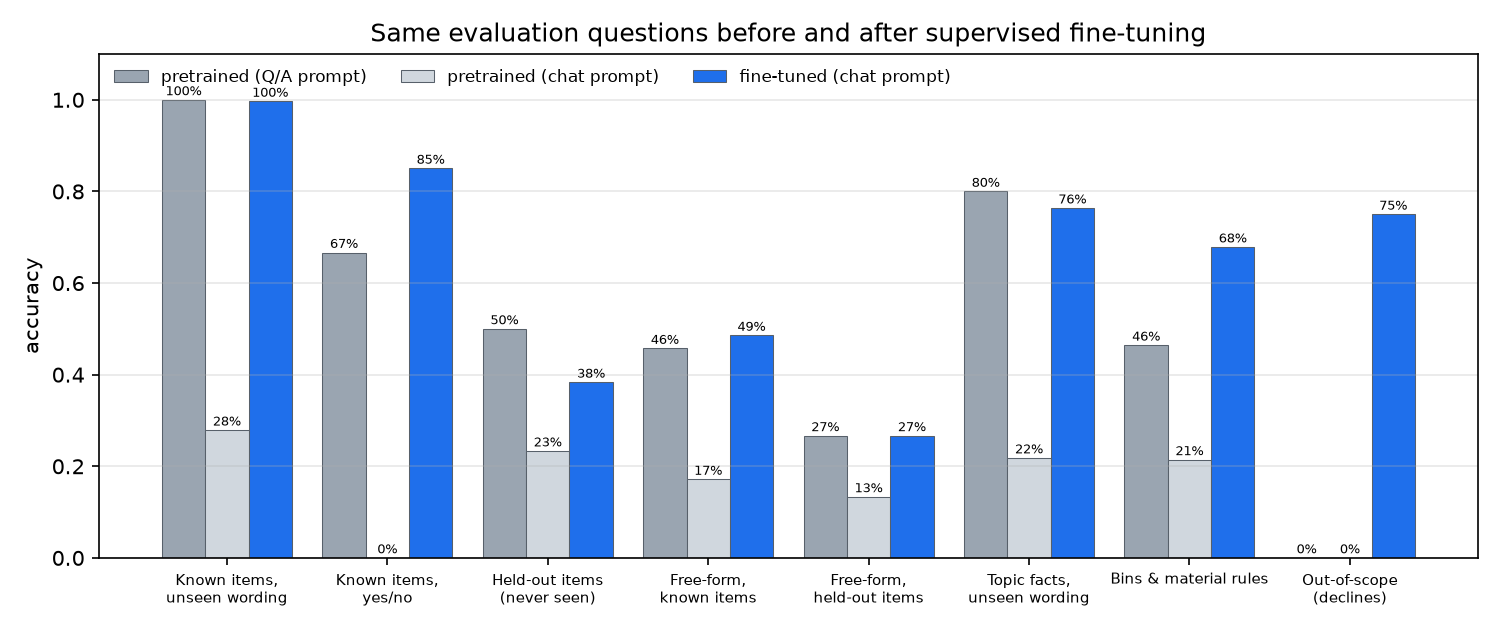
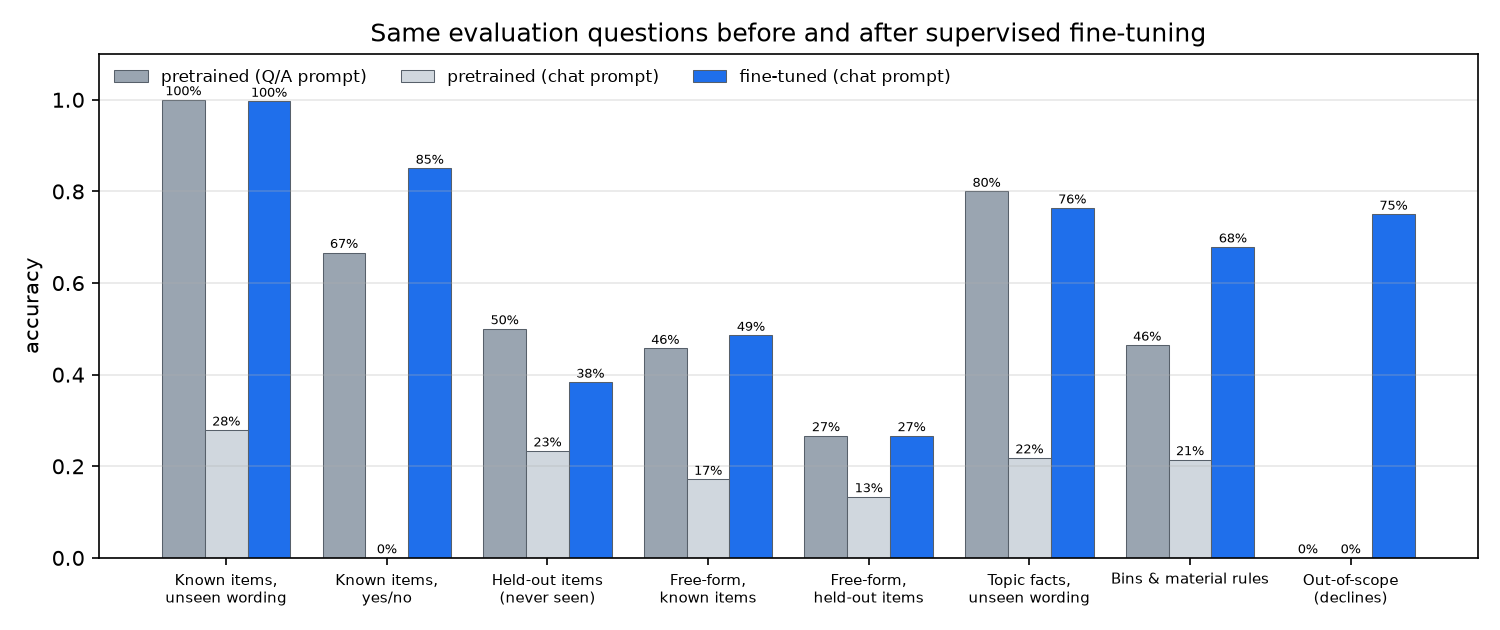
SFT ablation setup: --exclude-categories, notebook 03, --add mode in QA eval

diff --git a/src/evaluate_qa.py b/src/evaluate_qa.py
@@ -118,6 +118,9 @@ def main(argv=None):
     ap.add_argument("--limit", type=int, default=None, help="evaluate only the first N questions (debugging)")
     ap.add_argument("--rescore", action="store_true",
                     help="re-score the answers saved in results/tables/qa_eval_answers.csv instead of generating")
+    ap.add_argument("--add", nargs=2, action="append", metavar=("LABEL", "CHECKPOINT"), default=[],
+                    help="evaluate an extra fine-tuned model (chat prompt) and merge it with the saved answers of "
+                         "the other systems, e.g. --add \"fine-tuned, no declines\" checkpoints/sft_no_decline/ckpt_best.pt")
     a = ap.parse_args(argv)
     torch.manual_seed(0)
     kb = load_kb()
@@ -132,13 +135,15 @@ def main(argv=None):
                 "question": e["question"], "answer": ans, "reference": e.get("reference", ""), **score(e, ans, matcher)}
 
     rows = []
-    if a.rescore:
+    added = [(label, path, "chat") for label, path in a.add]
+    if a.rescore or added:                    # reuse saved answers; regenerate only the added systems
         by_id = {e["id"]: e for e in ev}
         for old in csv.DictReader(open(TABLES / "qa_eval_answers.csv", encoding="utf-8")):
-            if old["id"] in by_id:
+            if old["id"] in by_id and old["system"] not in {s[0] for s in added}:
                 rows.append(row(old["system"], by_id[old["id"]], old["answer"]))
-    else:
-        for name, path, fmt in systems:
+    to_generate = added if (a.rescore or added) else systems
+    if to_generate:
+        for name, path, fmt in to_generate:
             model, _, ck = load_checkpoint(path, "cpu")
             print(f"== {name}: {path} (step {ck['step']})")
             for i, e in enumerate(ev):
@@ -147,7 +152,7 @@ def main(argv=None):
                     print(f"  {i + 1}/{len(ev)}")
 
     # ---- summary table
-    names = [s[0] for s in systems]
+    names = list(dict.fromkeys(r["system"] for r in rows))     # every system present, in order
     def rate(sel, key):
         vals = [r[key] for r in sel if key in r]
         return sum(vals) / len(vals) if vals else None
@@ -205,17 +210,17 @@ def main(argv=None):
     import matplotlib.pyplot as plt
     labels = [g for g, _ in GROUPS]
     fig, ax = plt.subplots(figsize=(10, 4.2), dpi=150)
-    colors = ["#9aa5b1", "#d0d7de", "#1f6feb"]
-    width = 0.27
+    colors = ["#9aa5b1", "#d0d7de", "#1f6feb", "#bf8700", "#2da44e"]
+    width = 0.8 / len(names)
     for k, n in enumerate(names):
         vals = [next(t[n] for t in table if t["group"] == g) or 0 for g in labels]
-        bars = ax.bar([i + (k - 1) * width for i in range(len(labels))], vals, width, label=n, color=colors[k],
+        bars = ax.bar([i + (k - (len(names) - 1) / 2) * width for i in range(len(labels))], vals, width, label=n, color=colors[k],
                       edgecolor="#57606a", linewidth=0.5)
         for b, v in zip(bars, vals):
             ax.text(b.get_x() + b.get_width() / 2, v + 0.01, f"{v:.0%}", ha="center", fontsize=6)
     ax.set_xticks(range(len(labels)))
     ax.set_xticklabels([l.replace(", ", ",\n").replace(" (", "\n(") for l in labels], fontsize=7)
-    ax.set_ylim(0, 1.1); ax.set_ylabel("accuracy"); ax.legend(frameon=False, fontsize=8, ncol=3, loc="upper left")
+    ax.set_ylim(0, 1.1); ax.set_ylabel("accuracy"); ax.legend(frameon=False, fontsize=8, ncol=len(names), loc="upper left")
     ax.set_title("Same evaluation questions before and after supervised fine-tuning"); ax.grid(axis="y", alpha=.3)
     fig.tight_layout()
     FIGURES.mkdir(parents=True, exist_ok=True)
@@ -227,7 +232,7 @@ def main(argv=None):
         by_id[r["id"]][r["system"]] = r
     ex = ["# QA examples: same question, pretrained vs. fine-tuned", "",
           "Greedy decoding. ✅/❌ = automatic verdict. Pretrained shown with its native `Q:/A:` prompt.", ""]
-    pre, fin = names[0], names[2]
+    pre, fin = "pretrained (Q/A prompt)", "fine-tuned (chat prompt)"
     for label, cats in GROUPS:
         ids = [i for i, d in by_id.items() if d[pre]["category"] in cats]
         improved = [i for i in ids if by_id[i][fin]["correct"] and not by_id[i][pre]["correct"]][:3]

diff --git a/src/finetune.py b/src/finetune.py
@@ -48,6 +48,8 @@ def get_args(argv=None):
     p.add_argument("--device", default="auto")
     p.add_argument("--no-amp", action="store_true")
     p.add_argument("--no-resume", action="store_true")
+    p.add_argument("--exclude-categories", nargs="*", default=[],
+                   help="drop SFT examples of these categories from train and val (ablation), e.g. out_of_scope")
     return p.parse_args(argv)
 
 
@@ -58,11 +60,13 @@ def lr_at(step, a):
     return a.min_lr + 0.5 * (a.lr - a.min_lr) * (1 + math.cos(math.pi * progress))
 
 
-def encode_pairs(path, tok, T):
+def encode_pairs(path, tok, T, exclude=()):
     """Returns list of (ids, n_prompt) per example; ids = prompt + answer tokens."""
     out = []
     for line in open(path, encoding="utf-8"):
         e = json.loads(line)
+        if e["category"] in exclude:
+            continue
         prompt = tok.encode(f"<|user|> {e['question']}<|assistant|>", allow_special=True)
         answer = tok.encode(f" {e['answer']}<|endoftext|>", allow_special=True)
         ids = (prompt + answer)[: T + 1]
@@ -124,11 +128,12 @@ def main(argv=None):
     cfg = GPTConfig(**init["config"])
     model = GPT(cfg).to(device)
     model.load_state_dict(init["model"])
-    train = encode_pairs(Path(a.data_dir) / "sft" / "train.jsonl", tok, cfg.context_length)
-    val = encode_pairs(Path(a.data_dir) / "sft" / "val.jsonl", tok, cfg.context_length)
+    train = encode_pairs(Path(a.data_dir) / "sft" / "train.jsonl", tok, cfg.context_length, a.exclude_categories)
+    val = encode_pairs(Path(a.data_dir) / "sft" / "val.jsonl", tok, cfg.context_length, a.exclude_categories)
     corpus_val = TokenData(Path(a.data_dir) / "tokens" / "val.bin", cfg.context_length)
     corpus_offsets = corpus_val.random_offsets(a.corpus_eval_batches * a.batch_size, np.random.default_rng(0))
-    sample_qs = [json.loads(l)["question"] for l in open(Path(a.data_dir) / "sft" / "val.jsonl", encoding="utf-8")][:8]
+    sample_qs = [e["question"] for e in map(json.loads, open(Path(a.data_dir) / "sft" / "val.jsonl", encoding="utf-8"))
+                 if e["category"] not in a.exclude_categories][:8]
 
     opt = configure_optimizer(model, a)
     scaler = torch.amp.GradScaler("cuda", enabled=use_amp)
@@ -211,6 +216,7 @@ def main(argv=None):
             save(last, full=True)
 
     summary = {"steps": step, "epochs": step * a.batch_size / len(train), "best_sft_val_loss": best,
+               "excluded_categories": a.exclude_categories,
                "init": a.init, "sft_train_pairs": len(train), "train_minutes": (elapsed_before + time.time() - t_start) / 60,
                "device": device, "gpu": torch.cuda.get_device_name(0) if device == "cuda" else None}
     json.dump(summary, open(out / "summary.json", "w"), indent=2)

diff --git a/PROJECT_TRACKER.md b/PROJECT_TRACKER.md
@@ -8,7 +8,11 @@ Legend: `[ ]` todo · `[x]` done · **(OBS)** = something to observe, measure, o
 ---
 
 ## ▶ Next session — start here (paused 2026-11-08)
-1. **SFT ablation without decline examples** (user approved): add `--exclude-categories` to `src/finetune.py`, notebook cell → Colab (~1 min) → download checkpoint to `checkpoints/sft_no_decline/` → extend `src/evaluate_qa.py` to a 3-model comparison → decide which fine-tuned model to submit.
+1. **SFT ablation without decline examples** (user approved):
+   - [x] `--exclude-categories` in `src/finetune.py` (no-decline set: 10,639 train pairs; everything else identical) + [notebooks/03_sft_ablation.ipynb](notebooks/03_sft_ablation.ipynb)
+   - [x] `src/evaluate_qa.py --add LABEL CKPT` evaluates only the new model and merges it with saved answers (rescore verified identical)
+   - [ ] **USER:** `git push`, run notebook 03 on Colab (~1–2 min), 📸 log, download `sft_no_decline/ckpt_best.pt` → `checkpoints/sft_no_decline/ckpt_best.pt`, results → `results/`
+   - [ ] Evaluate, compare 4 systems, decide which fine-tuned model to submit
 2. Then deliverables: README (install/hardware/inference/examples), demo script for the video, report draft from `report/notes/`, slides, AI Use Statement, member contributions, final reproducibility check.
 - Local checkpoints: `checkpoints/pretrain/` (best = step 1800 + 10 snapshots, run 2), `checkpoints/sft/ckpt_best.pt`. Local CPU torch in `.venv`. All work committed up to the QA evaluation (not pushed by Claude).
 
